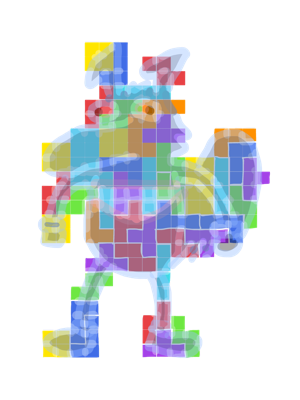
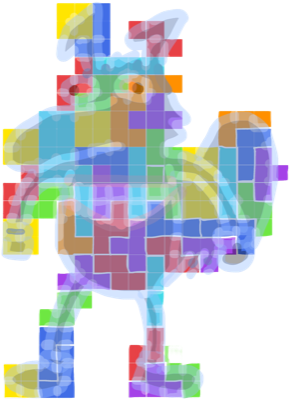
chore: use the tighter Petr crop
The art now fills its frame: 289x399 of a 292x400 canvas, against
234x318 of 300x400 before. A fifth of the old frame was transparent, so
at the same CSS height Petr drew 21px and now draws 26px — a quarter
larger on screen with no rule changed.

Nothing in the layout moves. The 26px box still contributes 16px after
the negative block margin, still less than the 22px title line box that
sets the strip's height, and the 2px it overhangs at each end lands in
9px of padding.

Sized from data/petr_v2.png, which is where the crop lives and is not
tracked. Noted in the stylesheet that the height now means what it says,
since a padded replacement would shrink him silently.

diff --git a/activity/client/src/styles/sheet.css b/activity/client/src/styles/sheet.css
@@ -192,6 +192,11 @@
  * about 22px and sets the strip's height, so at 26px he would push it down and
  * charge the board for it. Pulled in, he contributes less than the text does
  * and the strip is exactly as tall as it was before he arrived.
+ *
+ * The art is cropped tight to him, so this height is the height he is drawn at.
+ * Swapping in a version with transparent margin would shrink him without
+ * changing a number here — the first draft had a fifth of its frame empty and
+ * rendered at 21px.
  */
 .credits__petr {
   height: 26px;
